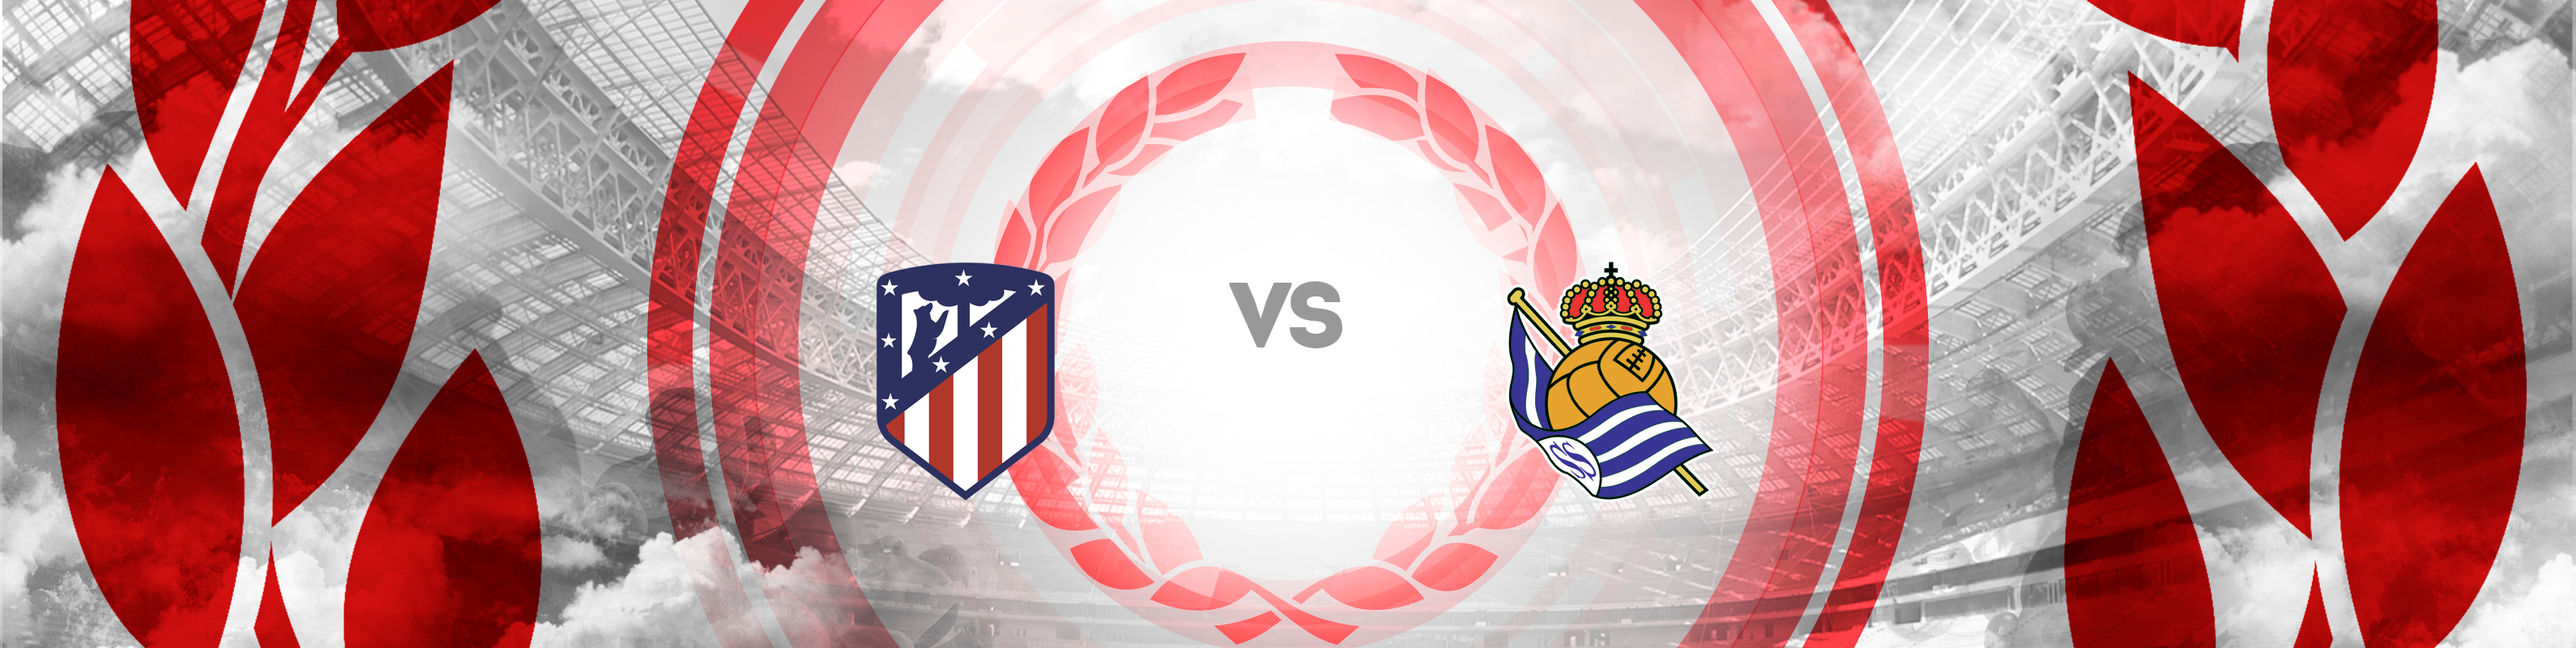
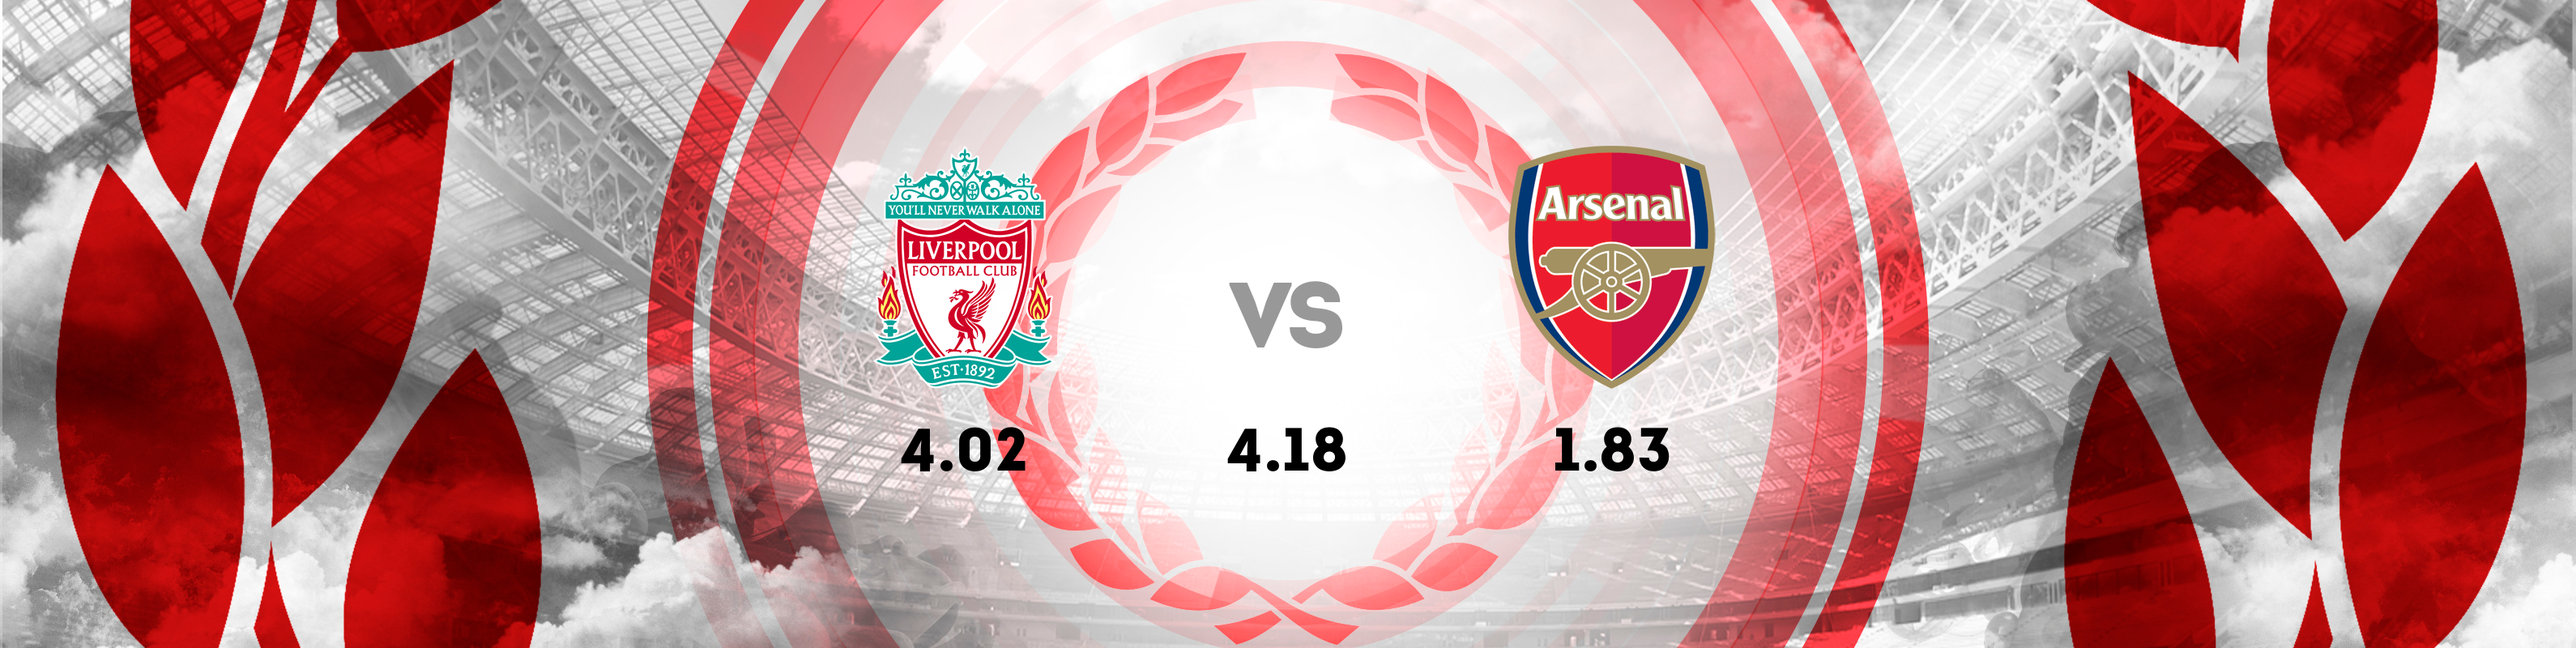
dasd

Changed region(s): [[0.5604, 0.2188, 0.6849, 0.7812], [0.3425, 0.25, 0.4358, 0.7812], [0.467, 0.6562, 0.5292, 0.75]]

diff --git a/src/backend/createImage.js b/src/backend/createImage.js
@@ -1,60 +1,78 @@
 let sharp = require('sharp'); //для обработки картинок
-
+let getFiles = require('./getFiles');
+let iconPath = require('./iconsPath.json');
 
 
 const backgroundPath = './background/background.png';  //путь до бэкграунда
 const spaceBetweenLogos = 400 //умножить на 2, тк применяется к позиционированнию каждого логотипа
 const exportPath = './final/fead.png';
-const jumpImage = 70 //расстояние на которое приподнимутся логотипы
+const marginImageY = -70 //расстояние на которое приподнимутся логотипы
+const marginCoeffY = 100 //расстояние на которое приподнимутся логотипы
+const logosPath = './logos/';
 
-let createImage = function(teams,coefficents,callback) {
+let images = [];
 
-    //для редактирования картинок, необходимо создать объект sharp, который принимает в себя ссылку до картинки
-    //в получившемся объекте запускаем нужные методы и через метод экспорта получаем нужную картинку
-    //для простоты генерации этих объектов, все пути до картинок складываются в массив и в соотв. порядке генерируется массив объектов sharp
+let expFunc = async function(matchObj){
+    console.log('take coefficents from temp path...');
+    let coefficents = (await getFiles('./coefficents','png')).map(path => {return './coefficents/' + path});
+    let imagesPaths = [].concat(backgroundPath,logosPath + iconPath[matchObj.firstTeam],logosPath + iconPath[matchObj.secondTeam],coefficents);
+    let promises = [];
+    for(let i = 0; i < imagesPaths.length; i++){
+        console.log(`create sharp object for ${imagesPaths[i]}`);
+        images.push({sharp: sharp(imagesPaths[i]), path: imagesPaths[i]}); 
+        promises.push(images[i].sharp.metadata());
+    }
+    await Promise.all(promises).then(arr => {
+        for(let i = 0; i < arr.length; i++){
+            images[i].width = arr[i].width;
+            images[i].height = arr[i].height;
+        }
+    })
+
+    return await createComposition(); 
+}
+
+async function createComposition(){
+    console.log(`Generate composition...`);
+    let background_halfWidth = images[0].width / 2; 
+    let background_halfHeight = images[0].height / 2;
+    let composition =  [{input: images[1].path, left: Math.floor((background_halfWidth - images[1].width / 2) - spaceBetweenLogos), top: Math.floor(background_halfHeight - images[1].height / 2 + marginImageY)},
+                        {input: images[2].path, left: Math.floor((background_halfWidth - images[2].width / 2) + spaceBetweenLogos), top: Math.floor(background_halfHeight - images[2].height / 2 + marginImageY)},
+                        {input: images[3].path, left: Math.floor((background_halfWidth - images[3].width / 2) - spaceBetweenLogos), top: Math.floor(background_halfHeight + images[3].height / 2 + marginCoeffY)},
+                        {input: images[4].path, left: Math.floor((background_halfWidth - images[4].width / 2)), top: Math.floor(background_halfHeight + images[4].height / 2 + marginCoeffY)},
+                        {input: images[5].path, left: Math.floor((background_halfWidth - images[5].width / 2) + spaceBetweenLogos), top: Math.floor(background_halfHeight + images[5].height / 2 + marginCoeffY)}]            
+    images[0].sharp.composite(composition).toFile(exportPath);
+    return exportPath;  
+}
+
+// let createImage = function(teams,coefficents,callback) {
+
+//     //для редактирования картинок, необходимо создать объект sharp, который принимает в себя ссылку до картинки
+//     //в получившемся объекте запускаем нужные методы редоктирования исходной картинки, а затем через метод экспорта получаем нужную картинку
+//     //для простоты генерации этих объектов, все пути до картинок складываются в массив и в соотв. порядке генерируется массив объектов sharp
     
-
-    console.log(`Get size of images...`);
-    //проходим по объектам и методом metadata получаем размеры картинки;
-    new Promise ((resolve,reject) => {
-        console.log('Generating objects for images...');
-        let paths = Array.prototype.concat(backgroundPath, teams, coefficents);
-        console.log(`Create sharp objects...`);
-        let images = [];
-        for(let i in paths){
-            images.push({sharp: sharp(paths[i]), path: paths[i]}); 
-        }
-        let promises = [];
-        for (let i in images){
-           let promise = new Promise ((resolve,reject) => {
-               images[i].sharp.metadata().then(function(meta){
-                    images[i].width = meta.width;
-                    images[i].height = meta.height;
-                    console.log(images[i]);
-                    resolve();
-               })
-           })
-           promises.push(promise);
-        }
-        Promise.all(promises).then((asdasd) => {resolve(images)});
-    })
-    .then(function(images){
-        return new Promise ((resolve,reject) => {
-            console.log(`Generate composition...`);
-            let background_halfWidth = images[0].width / 2;
-            let background_halfHeight = images[0].height / 2;
-            let composition =  [{input: images[1].path, left: Math.floor((background_halfWidth - images[1].width / 2) - spaceBetweenLogos), top: Math.floor(background_halfHeight - images[1].height / 2 - jumpImage)},
-                                {input: images[2].path, left: Math.floor((background_halfWidth - images[2].width / 2) + spaceBetweenLogos), top: Math.floor(background_halfHeight - images[2].height / 2 - jumpImage)},
-                                {input: images[3].path, letft}]
-            
-            images[0].sharp.composite(composition).toFile(exportPath,callback(null,`OK`));               
-        })
-    })
+//     //проходим по объектам и методом metadata получаем размеры картинки;
+//     new Promise ((resolve,reject) => {
+//         console.log('Generating objects for images...');
+//         console.log(`Create sharp objects...`);romises = [];
+//         for (let i in images){
+//            let promise = new Promise ((resolve,reject) => {
+//                images[i].sharp.metadata().then(function(meta){
+//                     images[i].width = meta.width;
+//                     images[i].height = meta.height;
+//                     console.log(images[i]);
+//                     resolve();
+//                })
+//            })
+//            promises.push(promise);
+//         }
+//         Promise.all(promises).then((asdasd) => {resolve(images)});
+//     })
+//     .then(function(images){
+             
+//         })
+//     })
   
-}
-let cb = (err,data) => {
-    console.log(data);
-}
-function
+// }
 
-createImage(['./logos/3c5745b91649d6f7352f65c3b4f109af.png','./logos/e3f06b7ac1fdff71b83f59c2902d6610.png'],['./coefficents/coeff0.png','./coefficents/coeff1.png','./coefficents/coeff2.png'], cb);
+module.exports = expFunc;

diff --git a/src/backend/makeCoeffImg.js b/src/backend/makeCoeffImg.js
@@ -1,0 +1,45 @@
+let text2png = require('text2png');
+let fs = require('fs');
+const IMG_PATH = './coefficents/';
+const FONT_PATH = './fonts/Intro-Black.otf';
+
+let expFunc = async function (coefficents){
+    if (coefficents instanceof Array){
+        let promises = [];
+        for(let i = 0; i < 3; i++){
+            console.log(`delete coefficent image ${i}...`);
+            await deleteFile(`${IMG_PATH}coeff${i}.png`).catch(err => console.log(err));
+            console.log(`CREATE coefficent image ${i}...`);
+            promises.push(createCoeffImg(coefficents[i], i));
+        }
+        await Promise.all(promises);
+        return 'Coefficents successful created!';
+    }
+    else throw new Error(`Varible 'coeffcents' is not an Array`);
+}
+
+async function createCoeffImg (coeff,index){
+    console.log(`Converting coefficent ${coeff} into png...`);
+    let file = text2png(coeff,{color: 'black', font: '75px Intro-Black', localFontPath:FONT_PATH, localFontName:'Intro-Black'});
+    console.log(`writing file...`);
+    await writeFile(`${IMG_PATH}coeff${index}.png`,file);
+    return true;
+}
+
+async function deleteFile(path){
+    return new Promise ((resolve,reject) => {
+        fs.unlink(path, (err) => {
+            if (err) reject(err);
+            resolve();
+        })
+    })
+}
+
+async function writeFile(path, file){
+    fs.writeFile(path,file,(err) => {
+        if (err) throw new Error(err);
+        else console.log('file succesful writed!');
+    });
+}
+
+module.exports = expFunc;

diff --git a/src/backend/index.js b/src/backend/index.js
@@ -1,9 +1,13 @@
 let parsMatchPage = require('./parsMatchPage.js');
 let icons = require('./icons.js');
+let createImage = require('./createImage');
+let makeCoeffImg = require('./makeCoeffImg');
 
 let matchData;
-parsMatchPage('https://www.olimp.bet/line/1/2430428/59915483').then(data => {matchData = data; console.log(matchData); return icons([matchData.firstTeam,matchData.secondTeam])})
-                                                              .then(checkResult => {console.log(checkResult)}); 
+parsMatchPage('https://www.olimp.bet/line/1/88250/60037790').then(data => {matchData = data; console.log(matchData); return makeCoeffImg(matchData.coeff)})
+                                                              .then(status => {console.log(status); return createImage({firstTeam:"Ливерпуль",secondTeam:'Арсенал'})})
+                                                              .then(path => console.log(path))
+                                                              .catch(err => console.log(err)); 
 
-
+                                                              
 

diff --git a/src/backend/getFiles.js b/src/backend/getFiles.js
@@ -1,20 +1,22 @@
 let fs = require('fs');
 let path = require('path');
 
-let getFiles = async function (dirPath,format,callback) {
-    new Promise(function(resolve,reject){
+let getFiles = async function (dirPath,format) {
+    let resultArr = [];
+
+    await new Promise(function(resolve,reject){
         fs.readdir(dirPath, function (err, files) {
             if (err) reject(err);
             resolve(files);
         });
     })
     .then((files) => {
-        let resultArr = [];
-        for (let i in files){
-            if(path.extname(files[i])=='.' + format) resultArr.push(files[i]);
+        for (let i = 0; i < files.length; i++){
+            if(path.extname(files[i]) == '.' + format) resultArr.push(files[i]);
         }
-        callback(null,resultArr);
     })
+    return resultArr;
 }
 
 module.exports = getFiles;
+
